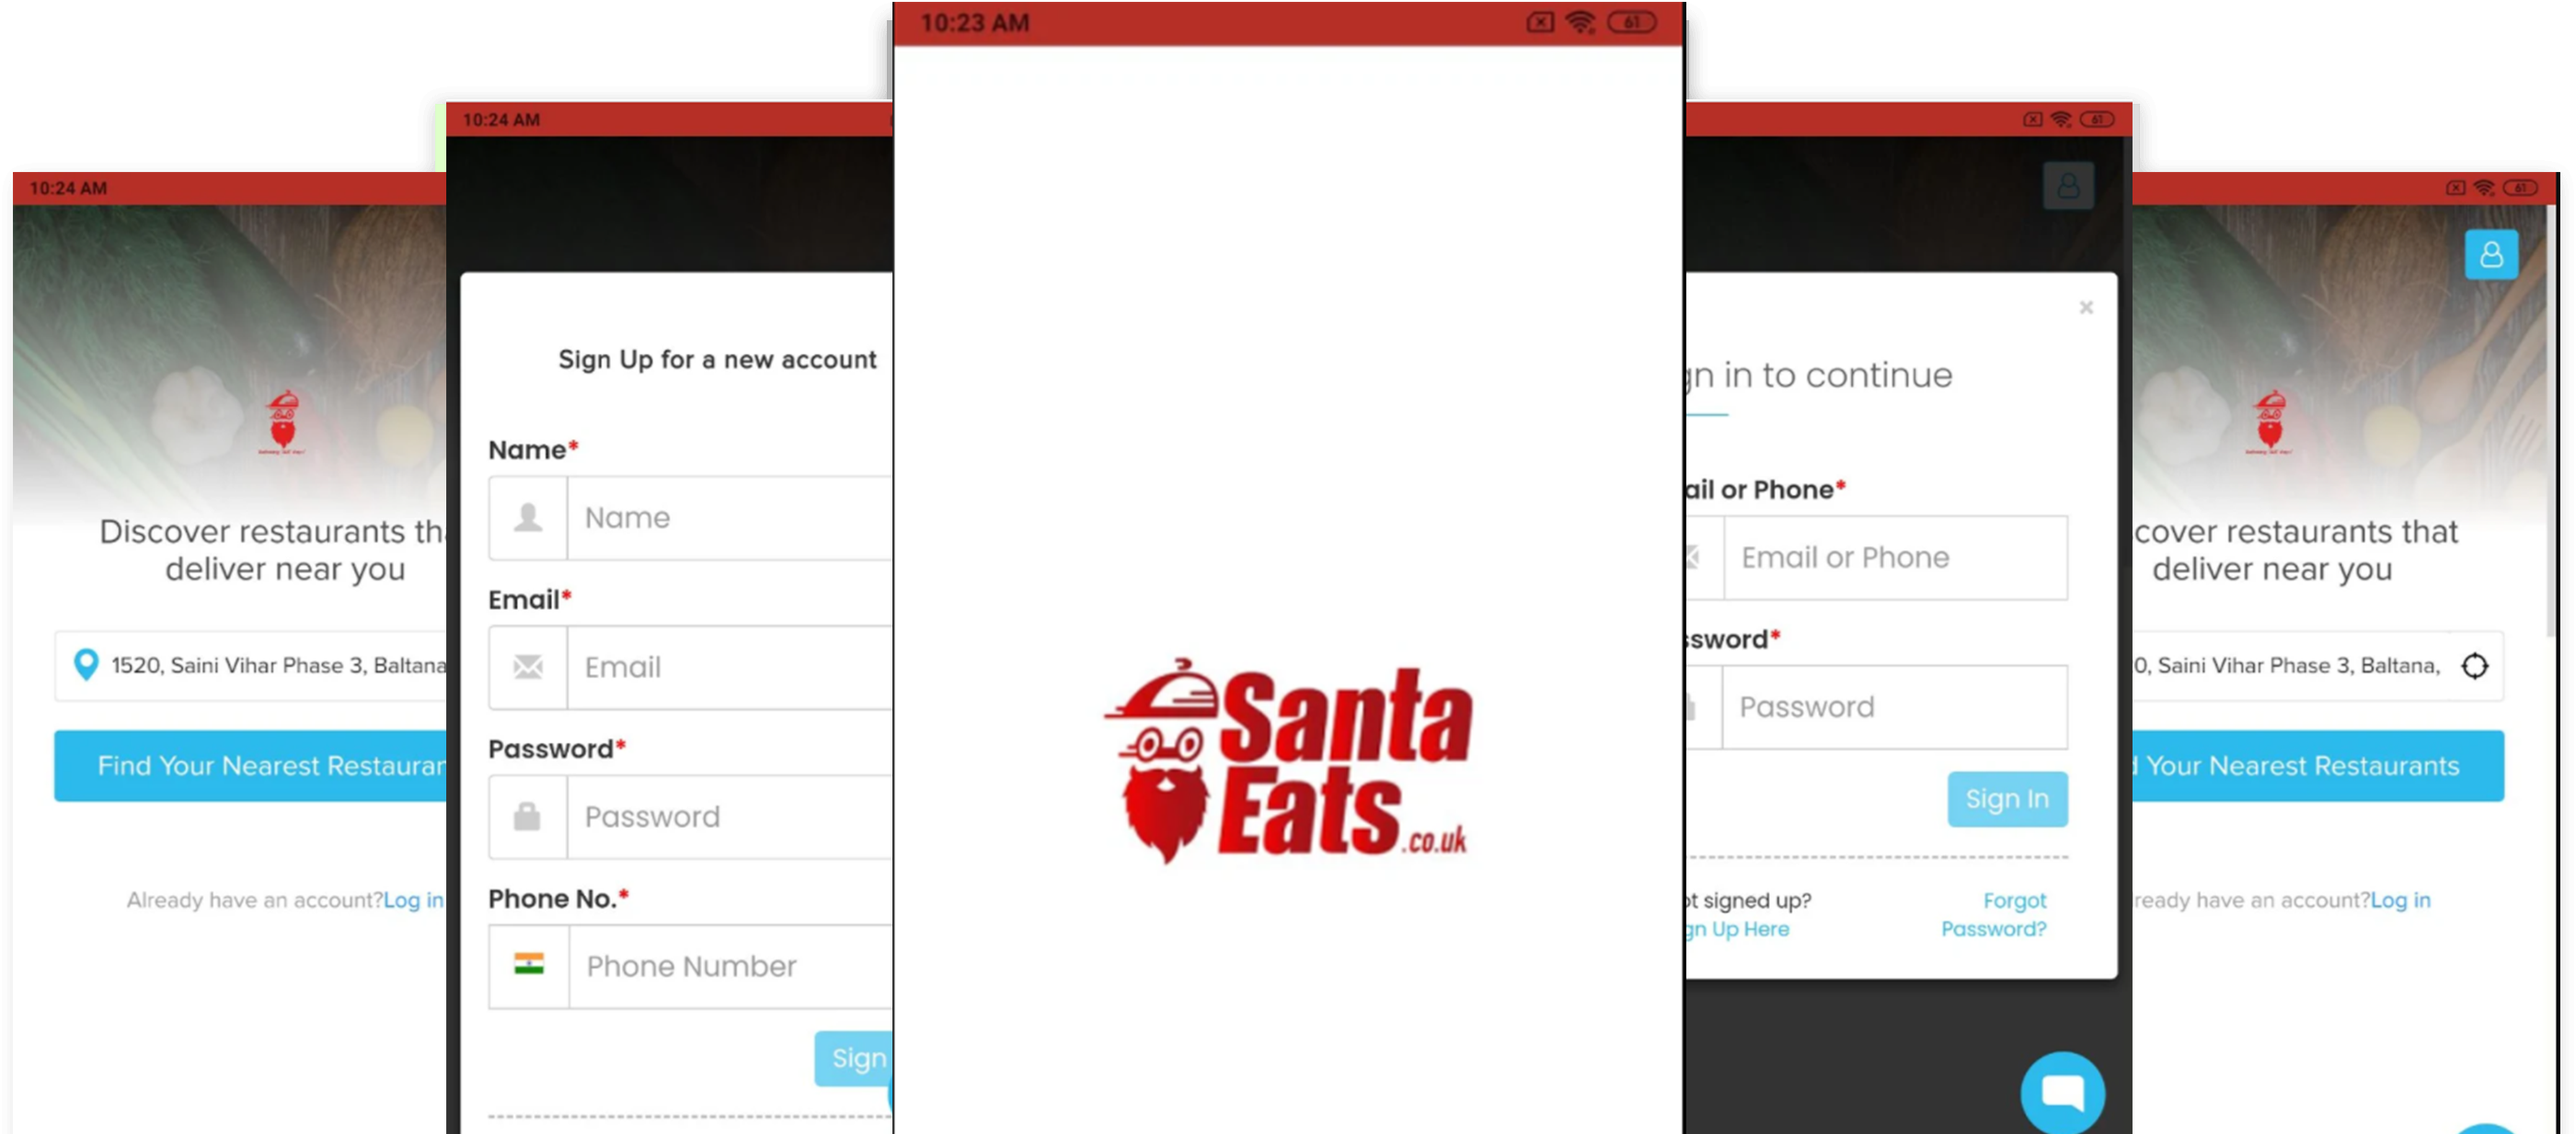
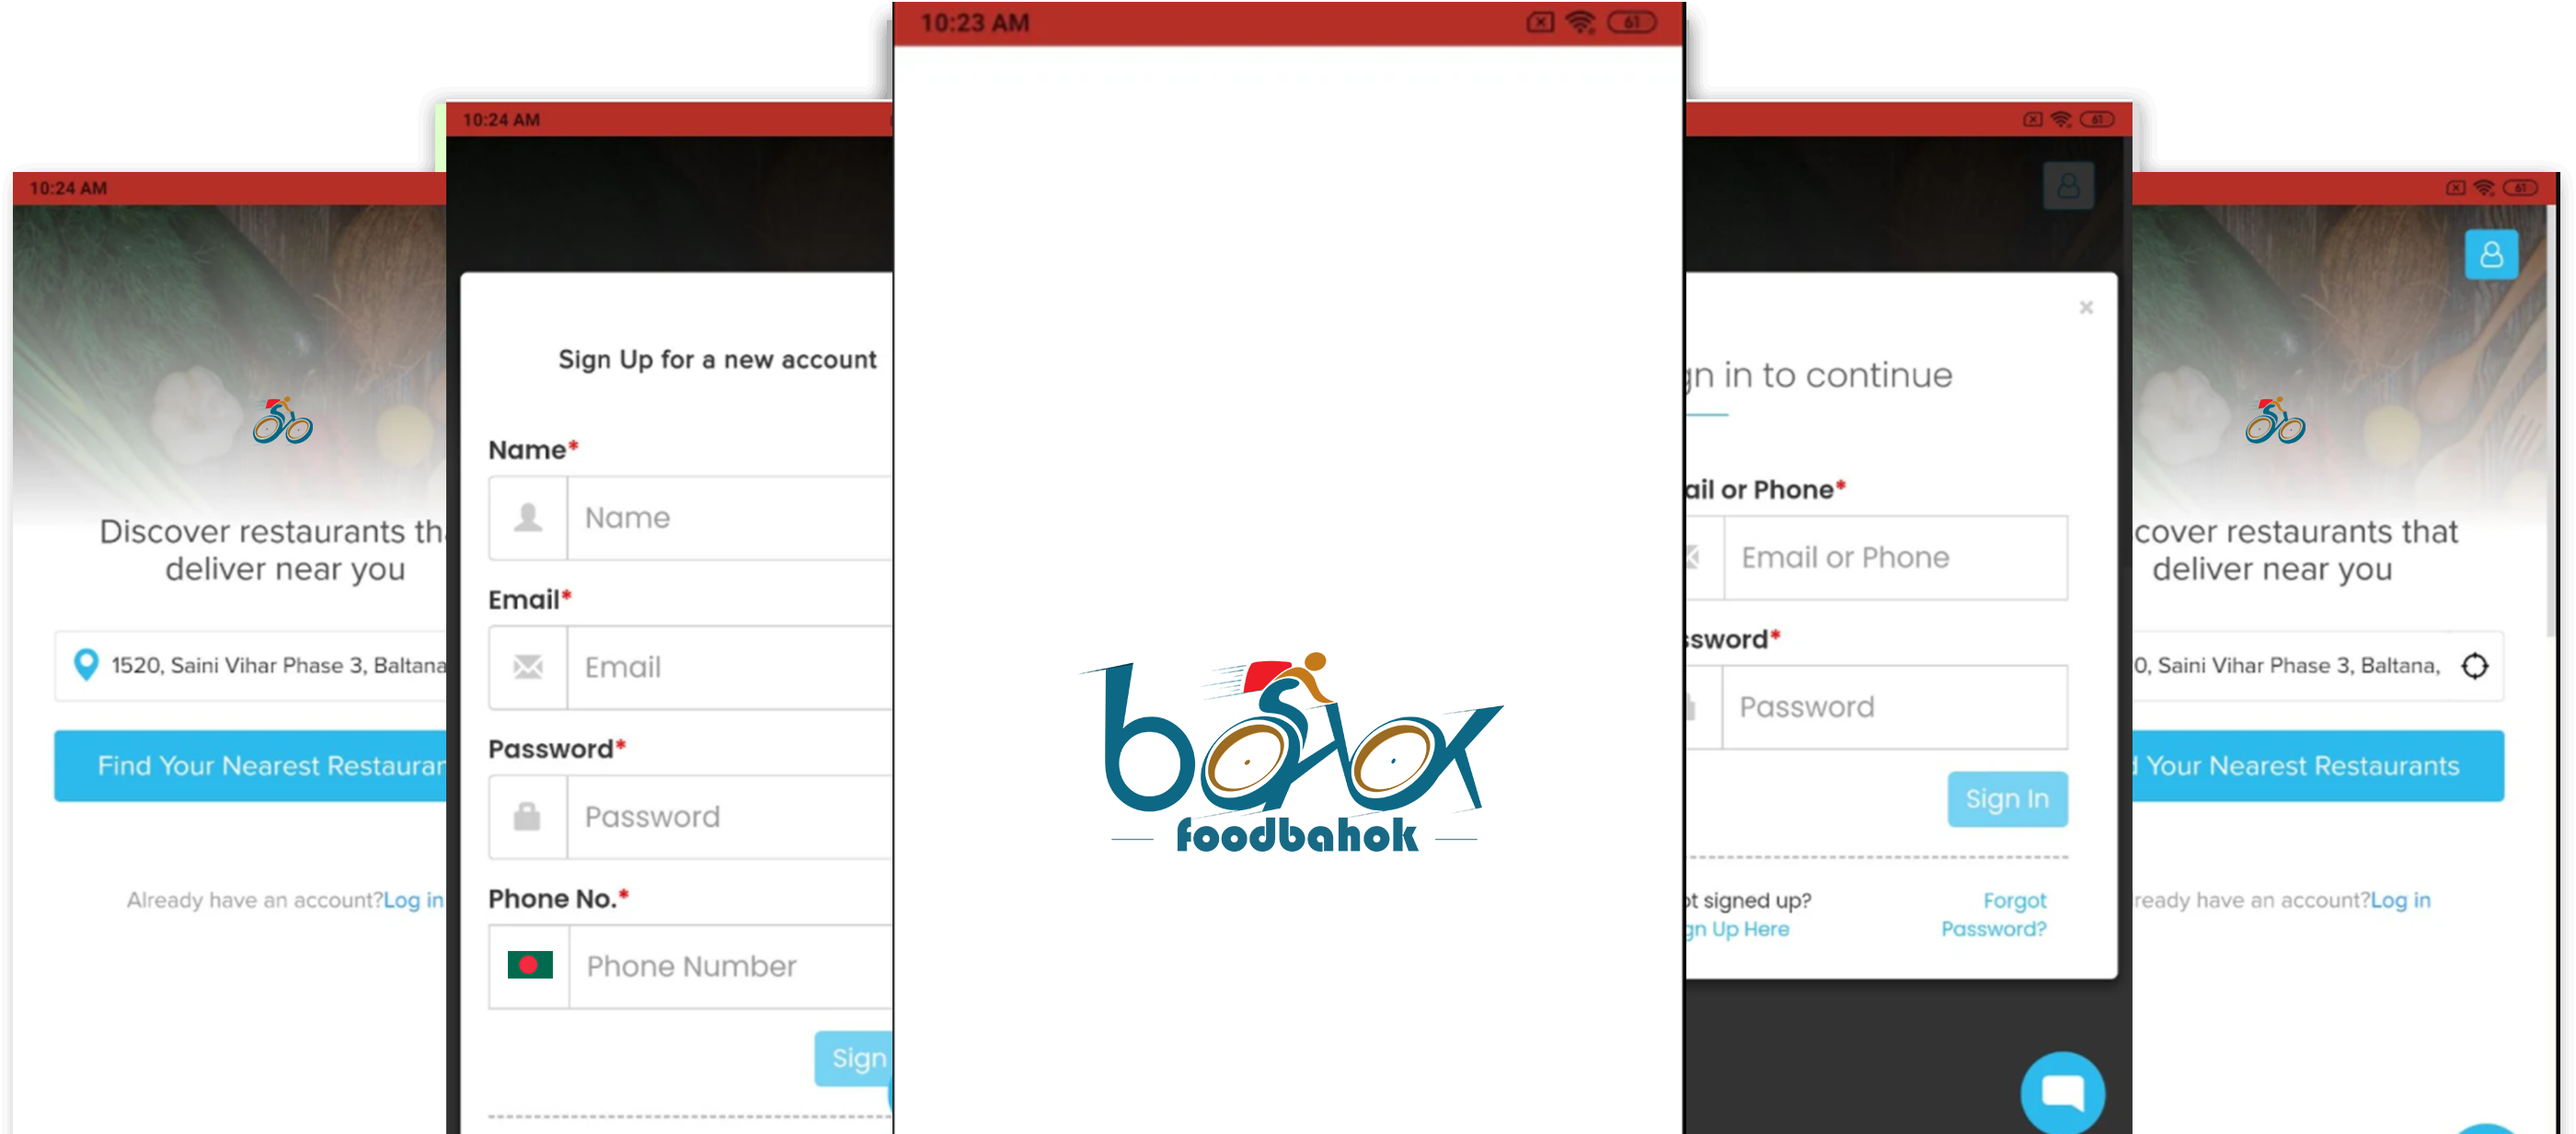
commit to clear

diff --git a/css/main.css b/css/main.css
@@ -1127,7 +1127,7 @@ h1.intro-header::before {
 
 #header {
   width: 100%;
-  height: 72px;
+  height: 80px;
   background-color: #0b394a;
   position: fixed;
   left: 50%;
@@ -1143,7 +1143,7 @@ h1.intro-header::before {
  * ------------------------------------------------------------------- */
 
 .header-logo {
-  position: absolute;
+  /* position: absolute;
   left: 40px;
   top: 50%;
   -webkit-transform: translateY(-50%);
@@ -1151,9 +1151,16 @@ h1.intro-header::before {
   transform: translateY(-50%);
   -webkit-transition: all 1s ease-in-out;
   transition: all 1s ease-in-out;
-  z-index: 501;
+  z-index: 501; */
+  position: absolute;
+  left: 80px;
+  top: 6%;
+  width: 221px;
+  padding: 3px 0;
 }
-
+.header-logo img{
+  max-width: 63%;
+}
 .header-logo a {
   display: block;
   margin: 0;
@@ -1504,7 +1511,7 @@ h1.intro-header::before {
   display: block;
   position: absolute;
   right: 0;
-  top: 59%;
+  top: 56%;
   -webkit-transform: translateY(-50%);
   -ms-transform: translateY(-50%);
   transform: translateY(-50%);

diff --git a/index.html b/index.html
@@ -61,7 +61,9 @@
    <header id="header">   
 
    		<div class="header-logo">
-	        <a href="index.html">Food Bahok</a>
+	        <!-- <a href="index.html">Food Bahok</a> -->
+
+            <img src="images/logo.png" alt="">
 	    </div>
 
 	   	<nav id="header-nav-wrap">
